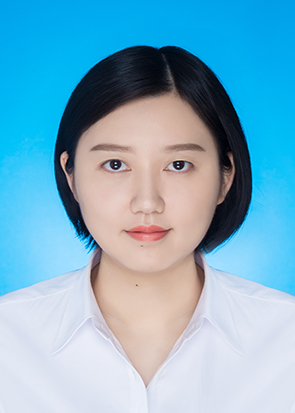
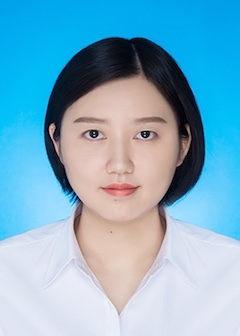
commit

diff --git a/index.html b/index.html
@@ -5,6 +5,15 @@
 <meta name="generator" content="jemdoc, see http://jemdoc.jaboc.net/" />
 <meta http-equiv="Content-Type" content="text/html;charset=utf-8" />
 <link rel="stylesheet" href="jemdoc.css" type="text/css" />
+<script>
+var _hmt = _hmt || [];
+(function() {
+  var hm = document.createElement("script");
+  hm.src = "https://hm.baidu.com/hm.js?74c73e0336c727810134f89cdb966279";
+  var s = document.getElementsByTagName("script")[0]; 
+  s.parentNode.insertBefore(hm, s);
+})();
+</script>
 <title>Xing Lei (雷星)</title>
 </head>
 <body>
@@ -21,7 +30,7 @@
 <h1>Xing Lei (雷星)</h1>
 </div>
 <table class="imgtable"><tr><td>
-<a href="https://whuxinglei.github.io/"><img src="personal_info/bio.jpeg" alt="alt text" width="120px" height="160px" /></a>&nbsp;</td>
+<a href="https://whuxinglei.github.io/"><img src="personal_info/bio.jpeg" alt="alt text" width="120px" height="168px" /></a>&nbsp;</td>
 <td align="left"><p>B.S.<br />
 Software Engineering <br /> 
 Wuhan University<br /> 
